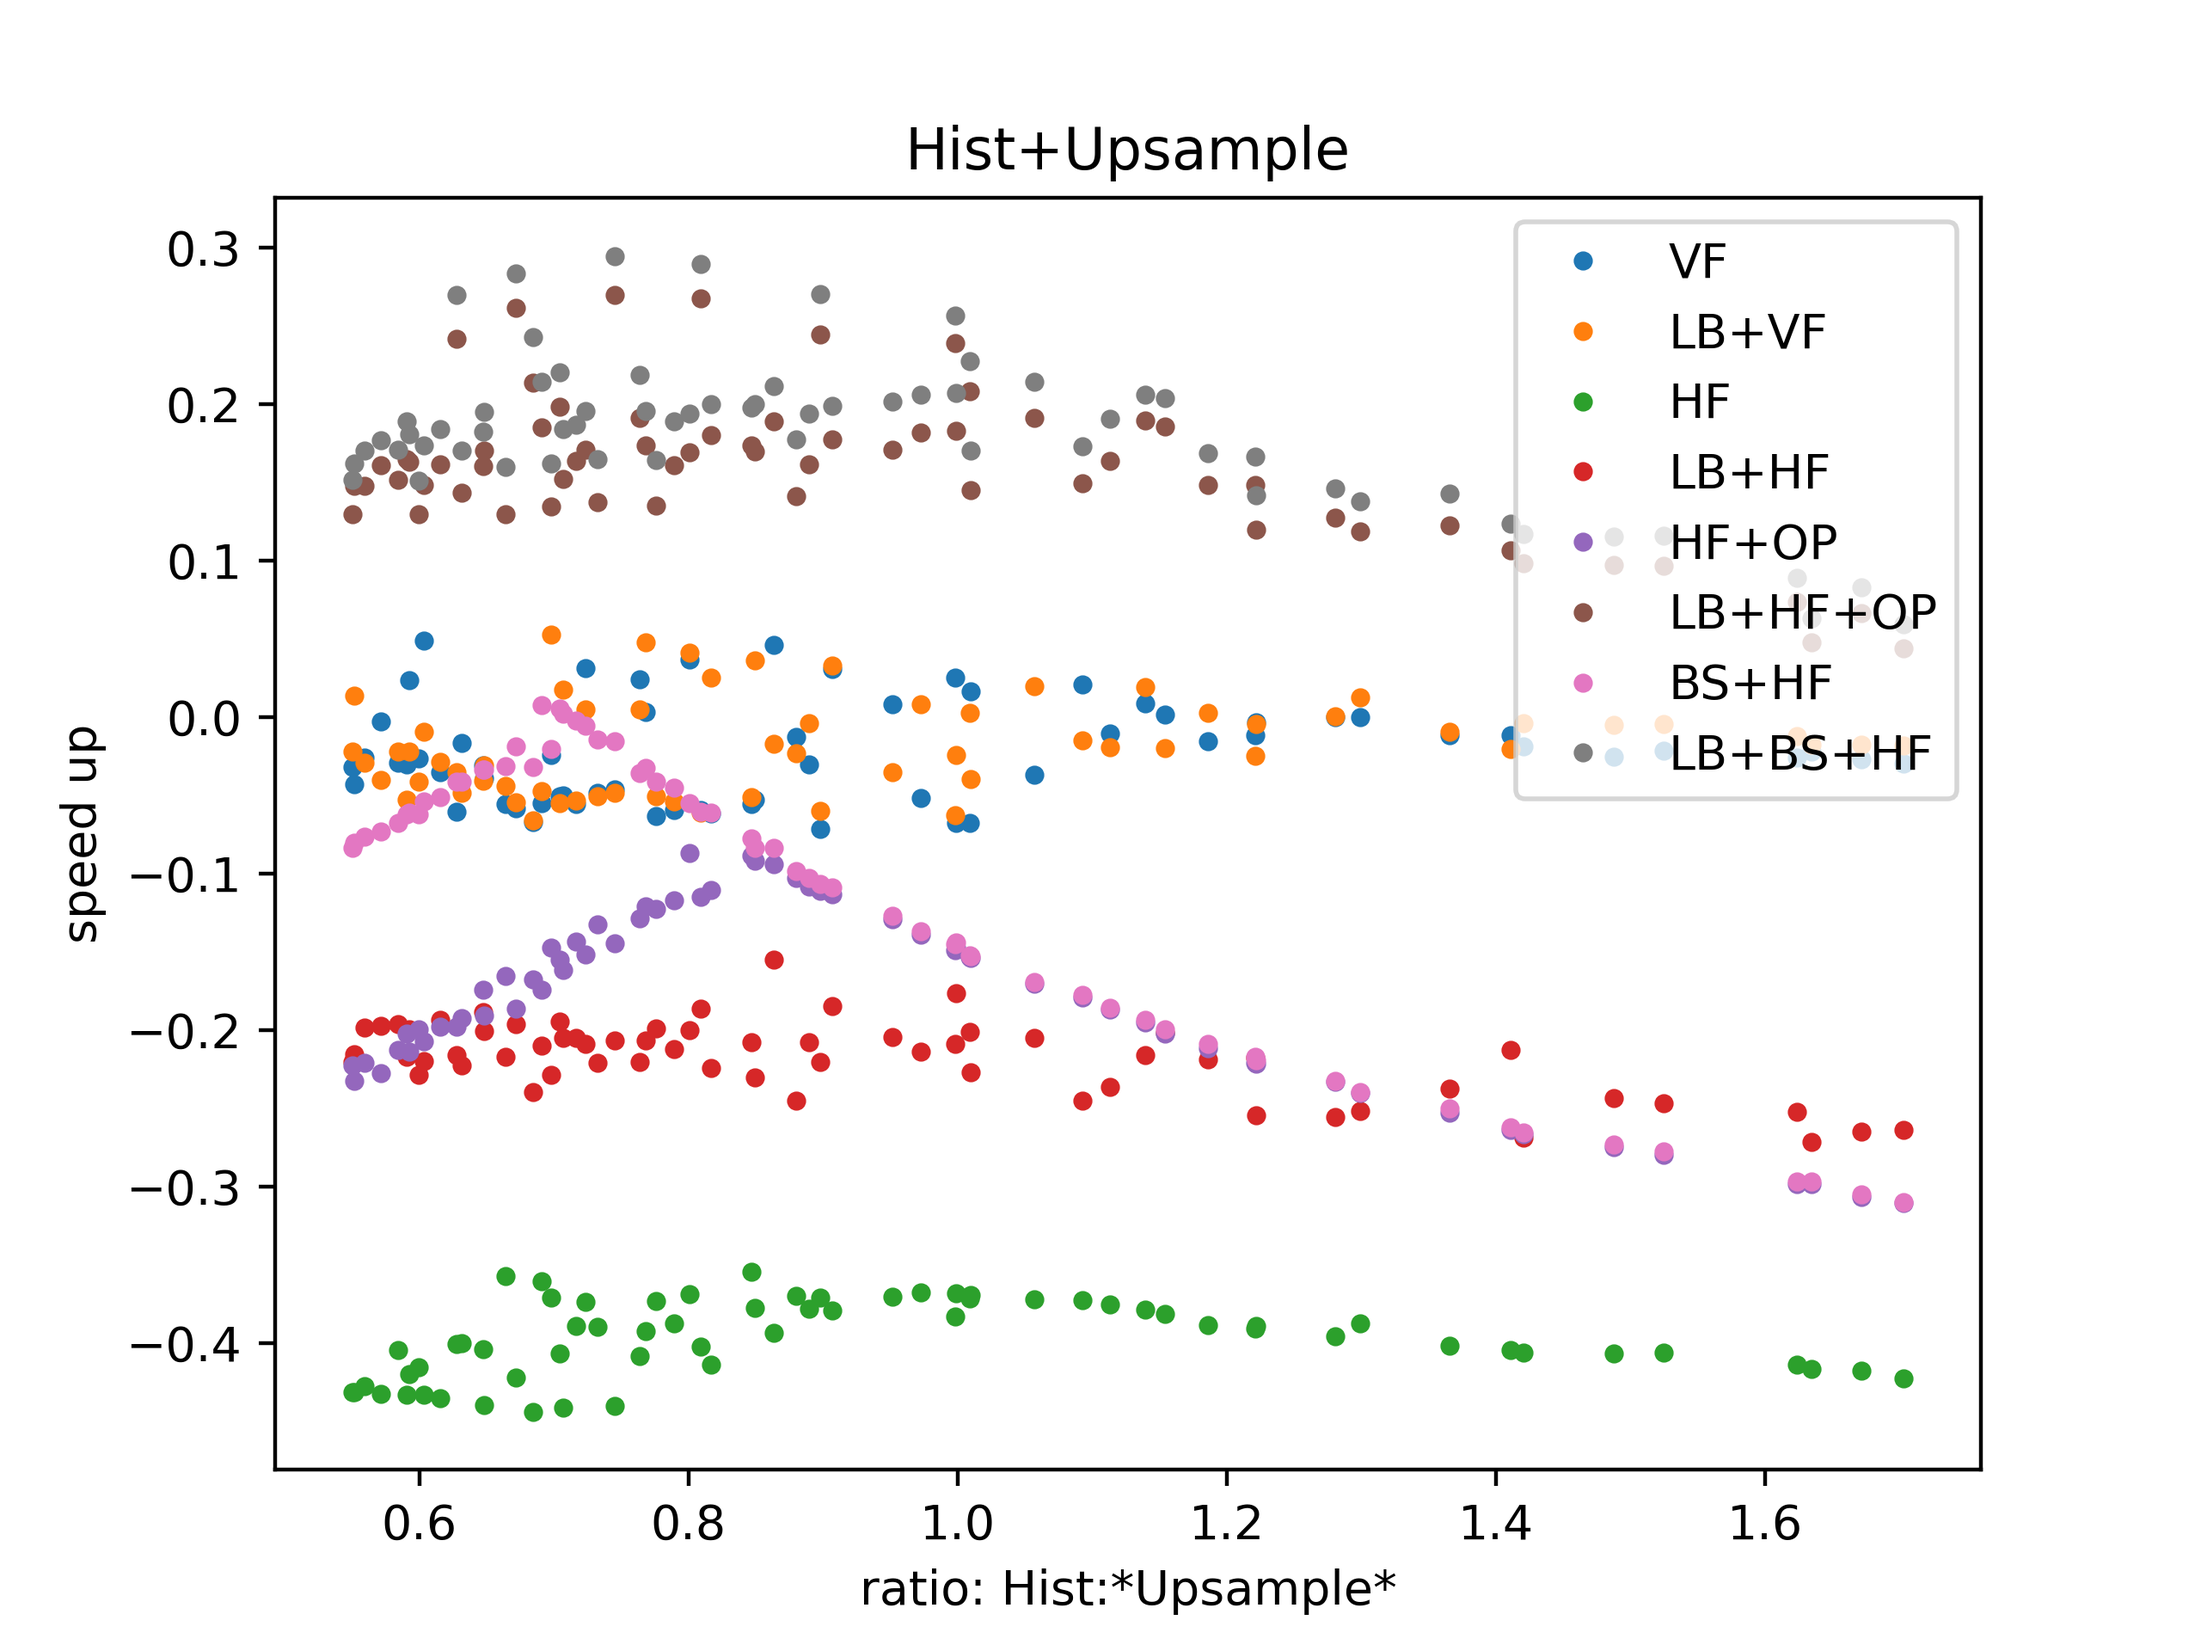
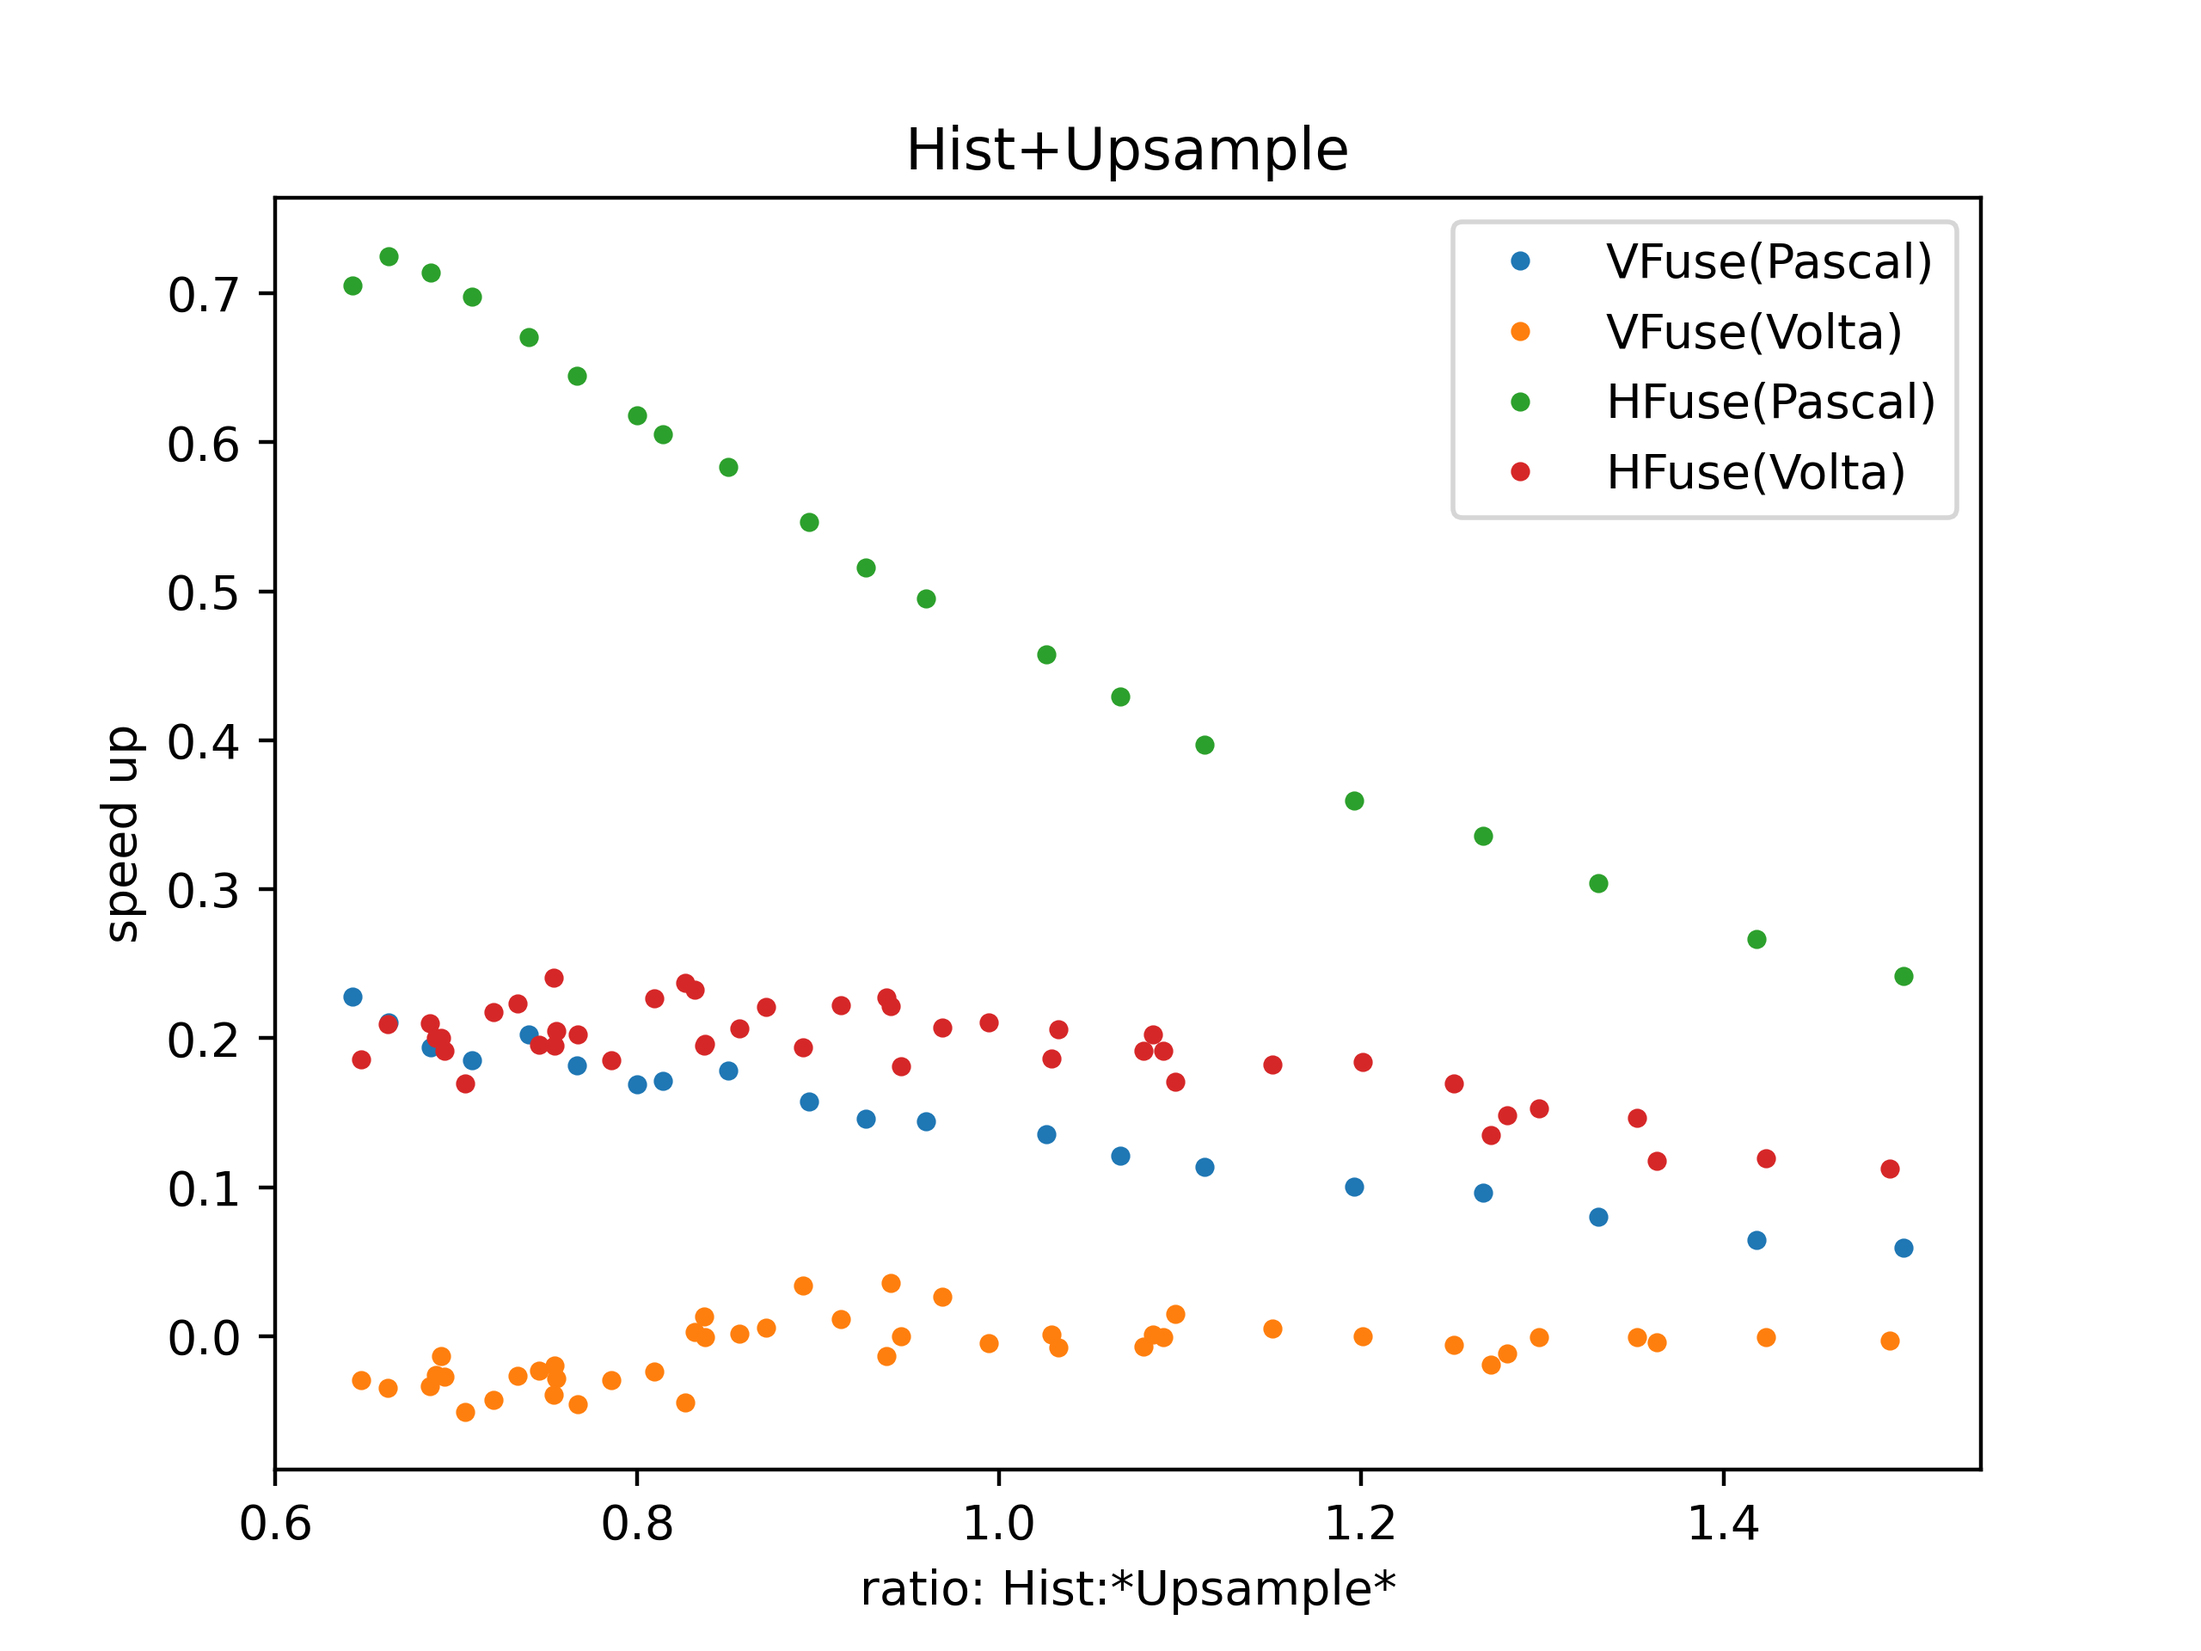
update.

diff --git a/scripts/analyze_nvprof.py b/scripts/analyze_nvprof.py
@@ -126,6 +126,7 @@ TAG_ORDER = [
 result = {}
 
 LABEL = "Avg"
+ITERS = 5
 
 def build_name(names):
     return "+".join(sorted(names))
@@ -174,24 +175,27 @@ def analyze(file_name, result):
 
 found_tags = set()
 
-def analyze_execution_time(f):
+def analyze_execution_time(f, time_result, time_result_separate, ignore):
     visited_ts = set()
-    time_result = {}
+    # time_result = {}
     time_result_count = {}
-    time_result_separate = {}
+    # time_result_separate = {}
 
     def update_time_result(key, tag, time):
+        if key not in time_result_count:
+            time_result_count[key] = {}
+        if tag not in time_result_count[key]:
+            time_result_count[key][tag] = 1
+        else:
+            time_result_count[key][tag] += 1
         if key not in time_result:
             time_result[key] = {}
-            time_result_count[key] = {}
             time_result_separate[key] = {}
         if tag in time_result[key]:
             time_result[key][tag] += time
-            time_result_count[key][tag] += 1
             time_result_separate[key][tag].append(time)
         else:
             time_result[key][tag] = time
-            time_result_count[key][tag] = 1
             time_result_separate[key][tag] = [time]
 
     with open(f) as json_file:
@@ -232,15 +236,49 @@ def analyze_execution_time(f):
                     prev_time = None
                     last_time = None
 
-    for x, y in time_result.items():
+    for x, y in time_result_count.items():
         for k, v in y.items():
-
-            y[k] = v / 1000000 / time_result_count[x][k]
+            time_result[x][k] = time_result[x][k] / 1000000 / v
+    for k in ignore:
+        del time_result[k]
+        del time_result_separate[k]
     return time_result, time_result_separate
 
-# r1 = {}
+r1 = {}
+r1_s = {}
+v1 = {}
+v1_s = {}
+pascal_selection = {
+    "Batchnorm+Upsample": ["LB+BS+HF", "LB+VF"],
+    "Hist+Im2Col": ["LB+BS+HF", "LB+VF"],
+    "Hist+Maxpool": ["LB+BS+HF", "LB+VF"],
+    "Batchnorm+Hist": ["LB+BS+HF", "LB+VF"],
+    "Hist+Upsample": ["LB+BS+HF", "VF"],
+    "Batchnorm+Im2Col": ["LB+BS+HF", "LB+VF"],
+    "Im2Col+Maxpool": ["LB+HF", "LB+VF"],
+    "Batchnorm+Maxpool": ["LB+VF", "LB+BS+HF"],
+    "Im2Col+Upsample": ["VF", "HF"],
+    "Maxpool+Upsample": ["LB+HF", "LB+VF"]
+}
+volta_selection = {
+    "Batchnorm+Upsample": ["LB+BS+HF", "LB+VF"],
+    "Hist+Im2Col": ["LB+VF", "LB+BS+HF"],
+    "Hist+Maxpool": ["BS+HF", "LB+VF"],
+    "Batchnorm+Hist": ["LB+BS+HF", "VF"],
+    "Hist+Upsample": ["LB+BS+HF", "LB+VF"],
+    "Batchnorm+Im2Col": ["LB+BS+HF", "LB+VF"],
+    "Im2Col+Maxpool": ["VF", "LB+HF"], 
+    "Batchnorm+Maxpool": ["LB+BS+HF", "VF"],
+    "Im2Col+Upsample": ["HF", "VF"],
+    "Maxpool+Upsample": ["LB+HF", "VF"]
+}
 # r2 = {}
-r1, r1_s = analyze_execution_time("./data-new/ml-volta-chart.json")
+analyze_execution_time("./data-new/ml-pascal-chart-1.json", r1, r1_s, ["Batchnorm+Im2Col"])
+analyze_execution_time("./data-new/ml-pascal-chart-2.json", r1, r1_s, [])
+analyze_execution_time("./data-new/ml-volta-chart-1.json", v1, v1_s, ['Im2Col+Upsample'])
+analyze_execution_time("./data-new/ml-volta-chart-2.json", v1, v1_s, [])
+# del r1['']
+# del r1_s['']
 #  r2 = analyze_execution_time("./data-new/ml-pascal.json")
 print(found_tags)
 # exit(0)
@@ -264,22 +302,53 @@ print(found_tags)
 
 # print(fr)
 
-def build_graph(result):
+def build_graph(result, selection, result_volta, selection_volta):
+    def get_average(data):
+        data = np.split(np.array(data), ITERS)
+        return np.asarray(np.matrix(data).mean(0))[0]
+
     for k, v in result.items():
+        print(k)
         if "+" not in k:
             continue
+        vra = get_average(v['RA'])
+        p_max = max(vra)
+        p_min = min(vra)
+        volta_ra = get_average(result_volta[k]['RA'])
+        v_max = max(volta_ra)
+        v_min = min(volta_ra)
+        range_min = max(v_min, p_min)
+        range_max = min(v_max, p_max)
+        # range_min = -9999
+        # range_max = 9999
         plt.figure()
+
+        vst = get_average(v['ST'])
+        volta_st = get_average(result_volta[k]['ST'])
         ks = sorted(k.split('+'))
         if v[ks[0]][1] - v[ks[0]][0] > v[ks[1]][1] - v[ks[1]][0]:
             ks[0] = "*" + ks[0] + "*"
         else:
             ks[1] = "*" + ks[1] + "*"
         for tag in TAG_ORDER:
-            if tag not in v or tag == "ST":
-                continue
-            a = np.array(v["ST"]) / np.array(v[tag]) 
-            a -= 1
-            plt.plot(v['RA'], a, '.', label=tag)
+            def check(res, sel, st, ra, name):
+                if tag not in sel[k]:
+                    return
+                if tag not in res or tag == "ST":
+                    return
+                a = np.array(st) / np.array(get_average(res[tag]))
+                a -= 1
+                lab = "HFuse" if "VF" not in tag else "VFuse"
+                lab += "(" + name + ")"
+                arr1inds = ra.argsort()
+                sorted_arr1 = ra[arr1inds[::-1]]
+                a = a[arr1inds[::-1]]
+                range_arr = (sorted_arr1 <= range_max) & (sorted_arr1 >= range_min)
+                # lab = tag
+                # sorted_arr2 = arr2[arr1inds[::-1]]
+                plt.plot(sorted_arr1[range_arr], a[range_arr], '.', label=lab)
+            check(v, selection, vst, vra, "Pascal")
+            check(result_volta[k], selection_volta, volta_st, volta_ra, "Volta")
         plt.legend()
         plt.xlabel("ratio: " + ":".join(ks))
         plt.ylabel("speed up")
@@ -321,7 +390,7 @@ def generate_table_1(result):
     # print(su / suc)
 
 generate_table_1(r1)
-build_graph(r1_s)
+build_graph(r1_s, pascal_selection, v1_s, volta_selection)
 #  generate_table_1(r2)
 
 
